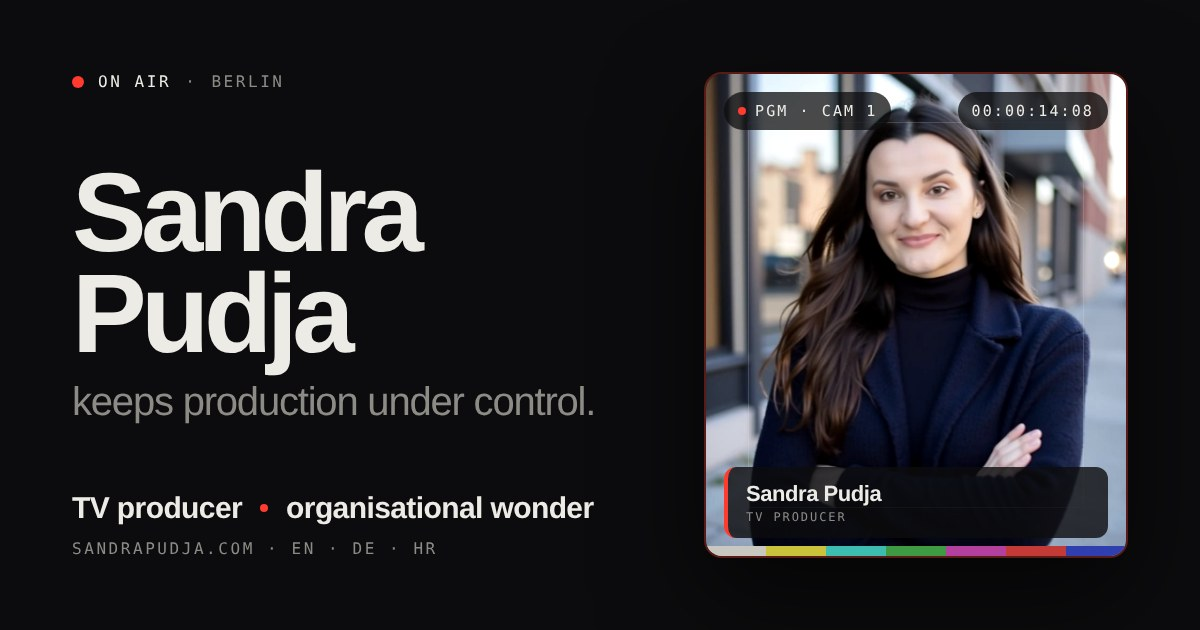
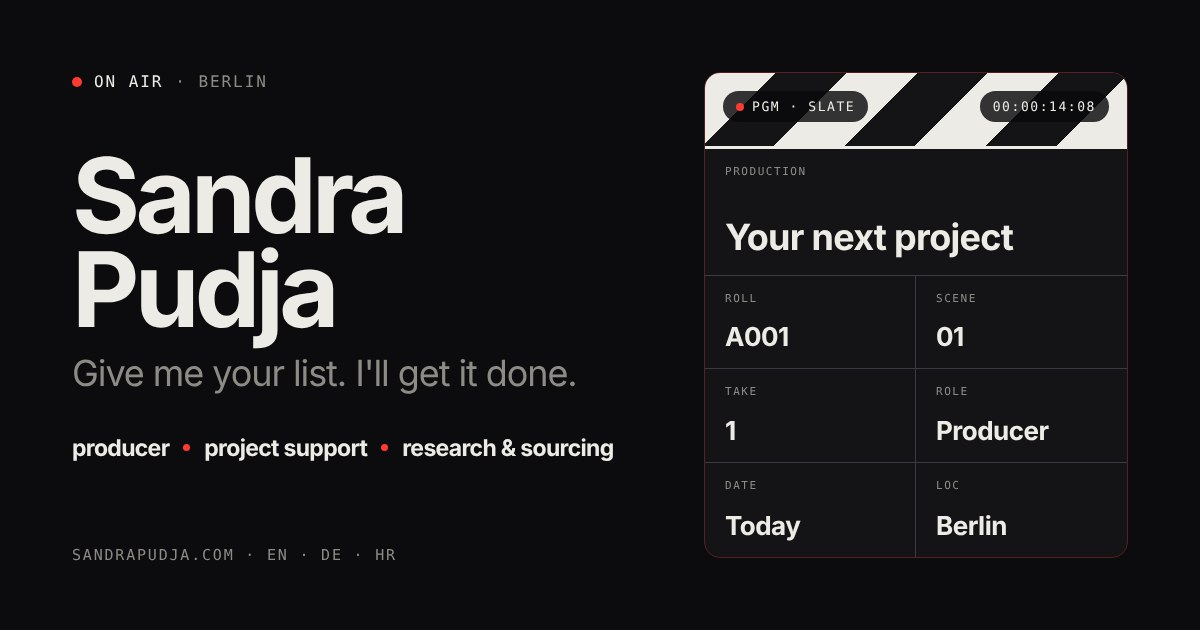
New share preview image with the slate; remove the AI portrait
- og.jpg: name, headline, roles and slate instead of the AI photo
- Delete sandra.jpg (no longer used); drop it from structured data

Claude-Session: https://claude.ai/code/session_014MjZ8pTXJ2A4H38XVGnsR7

diff --git a/de/right-hand.php b/de/right-hand.php
@@ -25,7 +25,7 @@
 <meta name="robots" content="index, follow, max-image-preview:large">
 <meta name="theme-color" content="#0c0c0e">
 <link rel="stylesheet" href="https://fonts.googleapis.com/css2?family=Instrument+Sans:wght@400;500;600;700&family=IBM+Plex+Mono:wght@400;500&display=swap">
-<script type="application/ld+json">[{"@context": "https://schema.org", "@type": "Service", "name": "Deine rechte Hand", "serviceType": "Executive- & persönliche Assistenz", "description": "Freie Executive- und persönliche Assistenz in Berlin und remote: Kalender, E-Mails, Reisen, Buchungen, Recherche und Follow-ups. Eine Aufgabe, ein Tag oder dauerhaft. Sandra Pudja buchen.", "url": "https://sandrapudja.com/de/right-hand.php", "areaServed": [{"@type": "City", "name": "Berlin"}, {"@type": "Country", "name": "Germany"}, {"@type": "Country", "name": "Croatia"}], "availableLanguage": ["en", "de", "hr"], "provider": {"@type": "Person", "name": "Sandra Pudja", "jobTitle": "Producer", "email": "hello@sandrapudja.com", "url": "https://sandrapudja.com", "address": {"@type": "PostalAddress", "addressLocality": "Berlin", "addressCountry": "DE"}, "image": "https://sandrapudja.com/sandra.jpg"}}, {"@context": "https://schema.org", "@type": "FAQPage", "mainEntity": [{"@type": "Question", "name": "Was kann ich abgeben?", "acceptedAnswer": {"@type": "Answer", "text": "Termine, E-Mails, Anrufe, Reisen und Buchungen, Recherche und Sourcing, Dokumente und Präsentationen, Erinnerungen, Follow-ups und Besorgungen. Steht es nicht auf der Liste, frag einfach."}}, {"@type": "Question", "name": "Geschäftlich oder privat?", "acceptedAnswer": {"@type": "Answer", "text": "Beides. Geschenke, Termine, Bestellungen, Abholungen, Dinge finden, Ausmisten, Reiseplanung. Ich putze nicht deine Wohnung. Ich mache dir das Leben leichter."}}, {"@type": "Question", "name": "Remote oder vor Ort?", "acceptedAnswer": {"@type": "Answer", "text": "Meist remote, von überall. Vor Ort in Berlin, wenn es hilft."}}, {"@type": "Question", "name": "In welchen Sprachen?", "acceptedAnswer": {"@type": "Answer", "text": "Deutsch, Englisch und Kroatisch."}}, {"@type": "Question", "name": "Was kostet das?", "acceptedAnswer": {"@type": "Answer", "text": "Das hängt vom Umfang ab. Einzelne Aufgaben, ganze Tage und laufende Unterstützung werden unterschiedlich berechnet. Schreib mir, was du brauchst, und du bekommst ein klares Angebot."}}]}, {"@context": "https://schema.org", "@type": "BreadcrumbList", "itemListElement": [{"@type": "ListItem", "position": 1, "name": "Sandra Pudja", "item": "https://sandrapudja.com/de/"}, {"@type": "ListItem", "position": 2, "name": "Deine rechte Hand", "item": "https://sandrapudja.com/de/right-hand.php"}]}]</script>
+<script type="application/ld+json">[{"@context": "https://schema.org", "@type": "Service", "name": "Deine rechte Hand", "serviceType": "Executive- & persönliche Assistenz", "description": "Freie Executive- und persönliche Assistenz in Berlin und remote: Kalender, E-Mails, Reisen, Buchungen, Recherche und Follow-ups. Eine Aufgabe, ein Tag oder dauerhaft. Sandra Pudja buchen.", "url": "https://sandrapudja.com/de/right-hand.php", "areaServed": [{"@type": "City", "name": "Berlin"}, {"@type": "Country", "name": "Germany"}, {"@type": "Country", "name": "Croatia"}], "availableLanguage": ["en", "de", "hr"], "provider": {"@type": "Person", "name": "Sandra Pudja", "jobTitle": "Producer", "email": "hello@sandrapudja.com", "url": "https://sandrapudja.com", "address": {"@type": "PostalAddress", "addressLocality": "Berlin", "addressCountry": "DE"}}}, {"@context": "https://schema.org", "@type": "FAQPage", "mainEntity": [{"@type": "Question", "name": "Was kann ich abgeben?", "acceptedAnswer": {"@type": "Answer", "text": "Termine, E-Mails, Anrufe, Reisen und Buchungen, Recherche und Sourcing, Dokumente und Präsentationen, Erinnerungen, Follow-ups und Besorgungen. Steht es nicht auf der Liste, frag einfach."}}, {"@type": "Question", "name": "Geschäftlich oder privat?", "acceptedAnswer": {"@type": "Answer", "text": "Beides. Geschenke, Termine, Bestellungen, Abholungen, Dinge finden, Ausmisten, Reiseplanung. Ich putze nicht deine Wohnung. Ich mache dir das Leben leichter."}}, {"@type": "Question", "name": "Remote oder vor Ort?", "acceptedAnswer": {"@type": "Answer", "text": "Meist remote, von überall. Vor Ort in Berlin, wenn es hilft."}}, {"@type": "Question", "name": "In welchen Sprachen?", "acceptedAnswer": {"@type": "Answer", "text": "Deutsch, Englisch und Kroatisch."}}, {"@type": "Question", "name": "Was kostet das?", "acceptedAnswer": {"@type": "Answer", "text": "Das hängt vom Umfang ab. Einzelne Aufgaben, ganze Tage und laufende Unterstützung werden unterschiedlich berechnet. Schreib mir, was du brauchst, und du bekommst ein klares Angebot."}}]}, {"@context": "https://schema.org", "@type": "BreadcrumbList", "itemListElement": [{"@type": "ListItem", "position": 1, "name": "Sandra Pudja", "item": "https://sandrapudja.com/de/"}, {"@type": "ListItem", "position": 2, "name": "Deine rechte Hand", "item": "https://sandrapudja.com/de/right-hand.php"}]}]</script>
 <style>
 :root{--bg:#0c0c0e;--bg-2:#111114;--panel:#17171b;--line:#26262c;--line-strong:#3a3a42;--fg:#ecebe6;--muted:#8c8b86;--rec:#ff3b30;--tally:#f2b544;--font-sans:"Instrument Sans","Helvetica Neue",Arial,sans-serif;--font-mono:"IBM Plex Mono",Menlo,monospace;--gl:max(16px,env(safe-area-inset-left,0px));--gr:max(16px,env(safe-area-inset-right,0px));color-scheme:dark}
 *{box-sizing:border-box}

diff --git a/right-hand.php b/right-hand.php
@@ -25,7 +25,7 @@
 <meta name="robots" content="index, follow, max-image-preview:large">
 <meta name="theme-color" content="#0c0c0e">
 <link rel="stylesheet" href="https://fonts.googleapis.com/css2?family=Instrument+Sans:wght@400;500;600;700&family=IBM+Plex+Mono:wght@400;500&display=swap">
-<script type="application/ld+json">[{"@context": "https://schema.org", "@type": "Service", "name": "Your right hand", "serviceType": "Executive & personal assistant", "description": "Freelance executive and personal assistant in Berlin and remote: calendar, emails, travel, bookings, research and follow-ups. One task, one day or ongoing. Book Sandra Pudja.", "url": "https://sandrapudja.com/right-hand.php", "areaServed": [{"@type": "City", "name": "Berlin"}, {"@type": "Country", "name": "Germany"}, {"@type": "Country", "name": "Croatia"}], "availableLanguage": ["en", "de", "hr"], "provider": {"@type": "Person", "name": "Sandra Pudja", "jobTitle": "Producer", "email": "hello@sandrapudja.com", "url": "https://sandrapudja.com", "address": {"@type": "PostalAddress", "addressLocality": "Berlin", "addressCountry": "DE"}, "image": "https://sandrapudja.com/sandra.jpg"}}, {"@context": "https://schema.org", "@type": "FAQPage", "mainEntity": [{"@type": "Question", "name": "What can I hand over?", "acceptedAnswer": {"@type": "Answer", "text": "Scheduling, emails, calls, travel and bookings, research and sourcing, documents and presentations, reminders, follow-ups and errands. If it's not on this list, just ask."}}, {"@type": "Question", "name": "Business or personal?", "acceptedAnswer": {"@type": "Answer", "text": "Both. Gifts, appointments, orders, pickups, finding things, decluttering, travel logistics. I don't clean your apartment. I make your life easier."}}, {"@type": "Question", "name": "Remote or in person?", "acceptedAnswer": {"@type": "Answer", "text": "Mostly remote, from anywhere. In person in Berlin when it helps."}}, {"@type": "Question", "name": "Which languages?", "acceptedAnswer": {"@type": "Answer", "text": "English, German and Croatian."}}, {"@type": "Question", "name": "What does it cost?", "acceptedAnswer": {"@type": "Answer", "text": "It depends on the size. Single tasks, full days and ongoing support are priced differently. Tell me what you need and you get a clear quote."}}]}, {"@context": "https://schema.org", "@type": "BreadcrumbList", "itemListElement": [{"@type": "ListItem", "position": 1, "name": "Sandra Pudja", "item": "https://sandrapudja.com/"}, {"@type": "ListItem", "position": 2, "name": "Your right hand", "item": "https://sandrapudja.com/right-hand.php"}]}]</script>
+<script type="application/ld+json">[{"@context": "https://schema.org", "@type": "Service", "name": "Your right hand", "serviceType": "Executive & personal assistant", "description": "Freelance executive and personal assistant in Berlin and remote: calendar, emails, travel, bookings, research and follow-ups. One task, one day or ongoing. Book Sandra Pudja.", "url": "https://sandrapudja.com/right-hand.php", "areaServed": [{"@type": "City", "name": "Berlin"}, {"@type": "Country", "name": "Germany"}, {"@type": "Country", "name": "Croatia"}], "availableLanguage": ["en", "de", "hr"], "provider": {"@type": "Person", "name": "Sandra Pudja", "jobTitle": "Producer", "email": "hello@sandrapudja.com", "url": "https://sandrapudja.com", "address": {"@type": "PostalAddress", "addressLocality": "Berlin", "addressCountry": "DE"}}}, {"@context": "https://schema.org", "@type": "FAQPage", "mainEntity": [{"@type": "Question", "name": "What can I hand over?", "acceptedAnswer": {"@type": "Answer", "text": "Scheduling, emails, calls, travel and bookings, research and sourcing, documents and presentations, reminders, follow-ups and errands. If it's not on this list, just ask."}}, {"@type": "Question", "name": "Business or personal?", "acceptedAnswer": {"@type": "Answer", "text": "Both. Gifts, appointments, orders, pickups, finding things, decluttering, travel logistics. I don't clean your apartment. I make your life easier."}}, {"@type": "Question", "name": "Remote or in person?", "acceptedAnswer": {"@type": "Answer", "text": "Mostly remote, from anywhere. In person in Berlin when it helps."}}, {"@type": "Question", "name": "Which languages?", "acceptedAnswer": {"@type": "Answer", "text": "English, German and Croatian."}}, {"@type": "Question", "name": "What does it cost?", "acceptedAnswer": {"@type": "Answer", "text": "It depends on the size. Single tasks, full days and ongoing support are priced differently. Tell me what you need and you get a clear quote."}}]}, {"@context": "https://schema.org", "@type": "BreadcrumbList", "itemListElement": [{"@type": "ListItem", "position": 1, "name": "Sandra Pudja", "item": "https://sandrapudja.com/"}, {"@type": "ListItem", "position": 2, "name": "Your right hand", "item": "https://sandrapudja.com/right-hand.php"}]}]</script>
 <style>
 :root{--bg:#0c0c0e;--bg-2:#111114;--panel:#17171b;--line:#26262c;--line-strong:#3a3a42;--fg:#ecebe6;--muted:#8c8b86;--rec:#ff3b30;--tally:#f2b544;--font-sans:"Instrument Sans","Helvetica Neue",Arial,sans-serif;--font-mono:"IBM Plex Mono",Menlo,monospace;--gl:max(16px,env(safe-area-inset-left,0px));--gr:max(16px,env(safe-area-inset-right,0px));color-scheme:dark}
 *{box-sizing:border-box}

diff --git a/CLAUDE.md b/CLAUDE.md
@@ -9,11 +9,11 @@ Hosted on Hostinger; Hostinger pulls this repo (branch `main`) into `public_html
 | Path | What it is |
 |---|---|
 | `index.php` | The whole site, English default. All three languages live inside it (see Texts). |
-| `de/index.php` | Same page, German as default language. Keep it in sync with `index.php` (same file, only `lang = "de"` and `src="../sandra.jpg"` differ). |
+| `de/index.php` | Same page, German as default language. Keep it in sync with `index.php` (same file, only `lang = "de"` and image paths with `../` differ). |
 | `live-event-production.php`, `media-creator-projects.php`, `operations-project-support.php`, `right-hand.php`, `producer-berlin.php` | SEO service pages, English (rebuilt Nov 2026 to match the four service cards; old URLs `tv-production`, `shoot-organisation`, `tv-producer-berlin`, `production-consulting` 301 in `.htaccess`). Each shows a slate instead of a photo. |
 | `de/*.php` | German versions of the service pages. |
 | `send.php` | Booking form handler (PHP `mail()`). Sends the request to Sandra and a confirmation to the sender. |
-| `sandra.jpg` | Old AI portrait. No longer shown on pages (slates replaced it); still used by `og.jpg`/structured data until those are replaced. |
+| `og.jpg` | Share preview image (1200×630): name, headline, roles and the slate. No photo. |
 | `off-duty.jpg` | Real photo (museum, chick) on the OFF DUTY monitor. |
 | `.htaccess` | HTTPS + non-www redirect, clean URLs (`/tv-production` → `tv-production.php`), old `.html` links 301 to `.php`. |
 | `sitemap.xml`, `robots.txt` | SEO. Update `sitemap.xml` if a page is added. |
@@ -59,6 +59,6 @@ The `code` under the form and the fallback `mailto:` use `MAIL` in `index.php`; 
 Every page starts with `<?php require __DIR__ . '/_gate.php'; ?>` (in `de/`: `'/../_gate.php'`). Pages are plain HTML otherwise.
 `_gate.php` checks the HttpOnly cookie `sp_access`; without it the visitor gets `gate.php`: red curtain, hint "Kaj?", password `zmaj` (case-insensitive, trailing "!" allowed). Correct answer sets the cookie for 90 days and the page reloads into the site.
 Pages are sent with `Cache-Control: private, no-store` and `Vary: Cookie` so a CDN never serves the unlocked page to a locked visitor.
-`og.jpg`, `sandra.jpg` and `robots.txt` are static and stay public, so share previews keep working.
+`og.jpg`, `off-duty.jpg` and `robots.txt` are static and stay public, so share previews keep working.
 
 **To open the site to everyone:** in `_gate.php` replace everything after the `define(...)` line with nothing (or make the file return immediately: put `return;` on line 2) and push. Pages keep working as `.php`.
